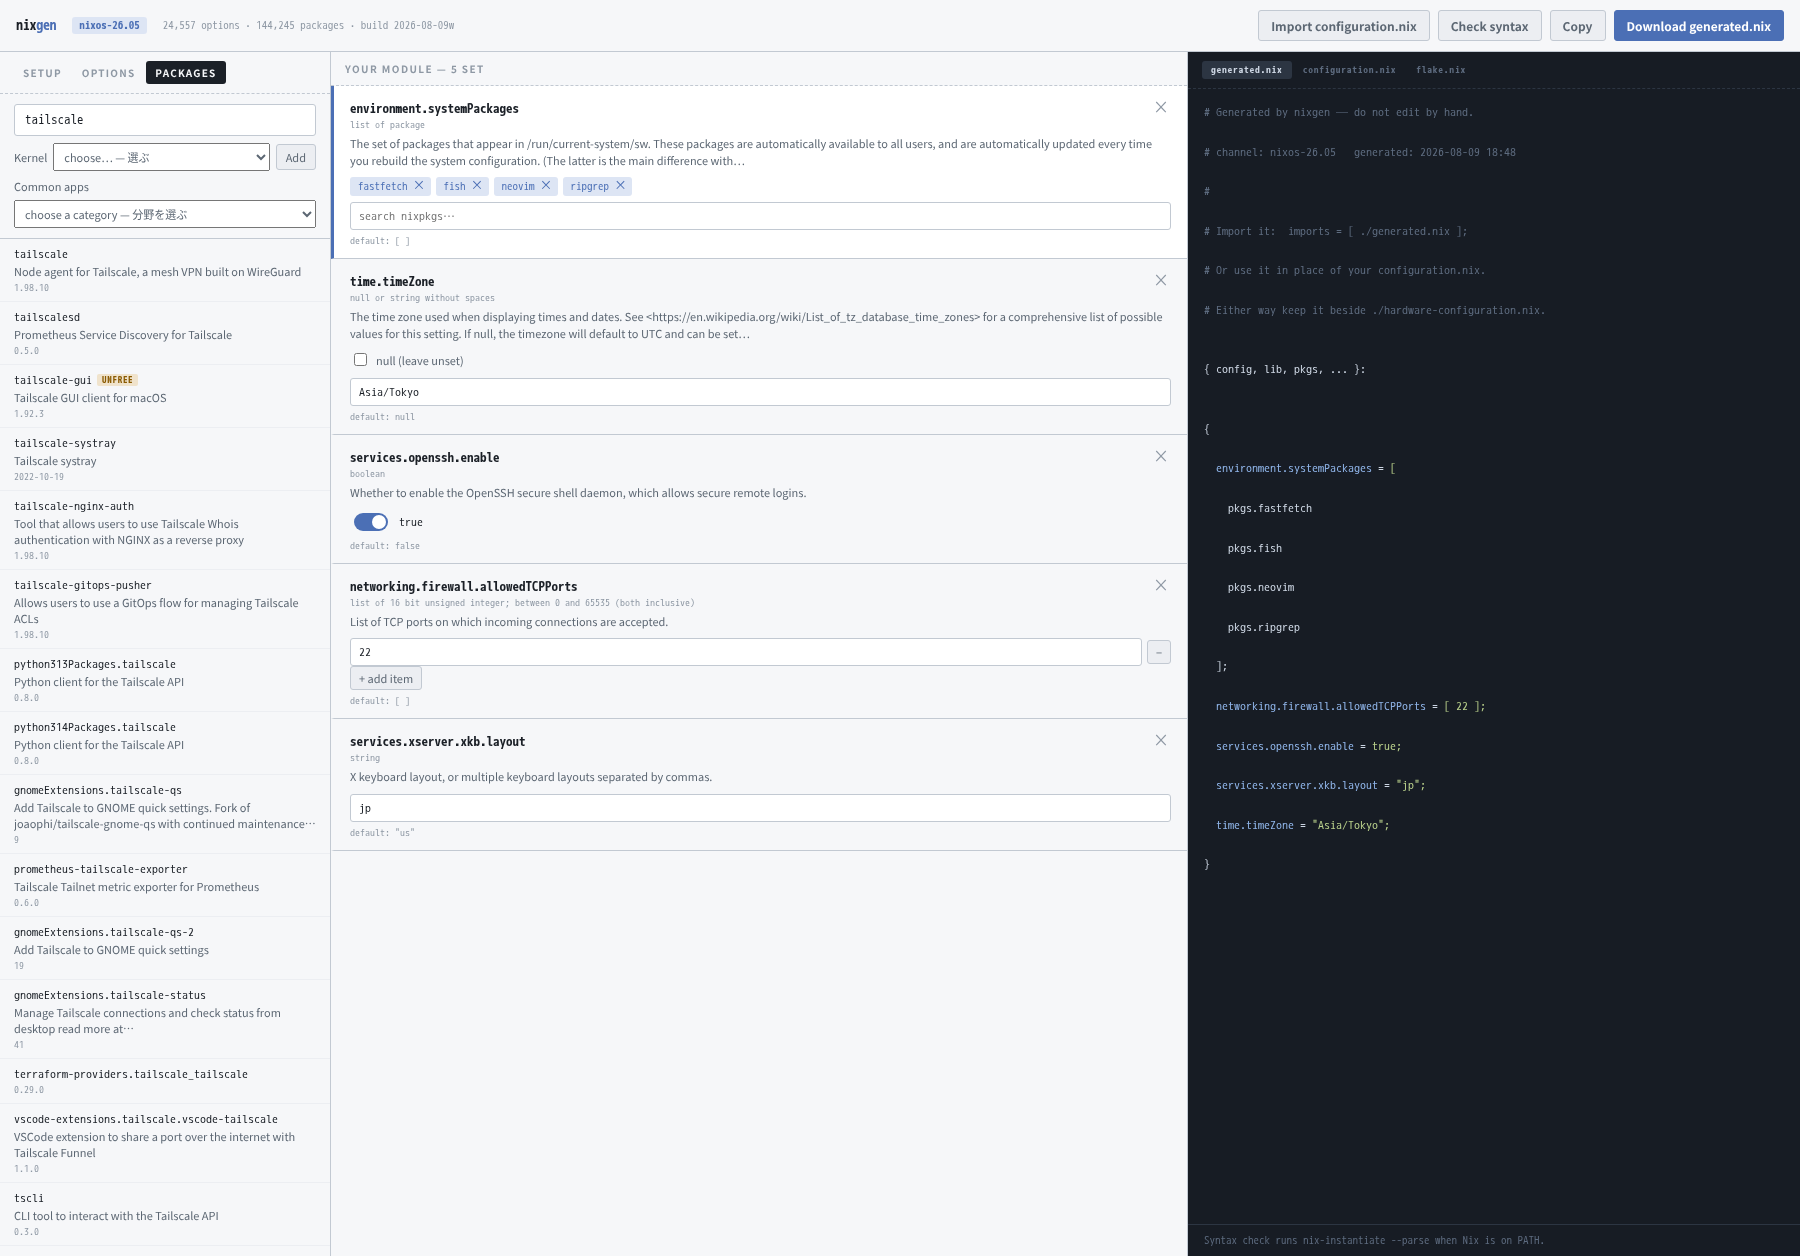
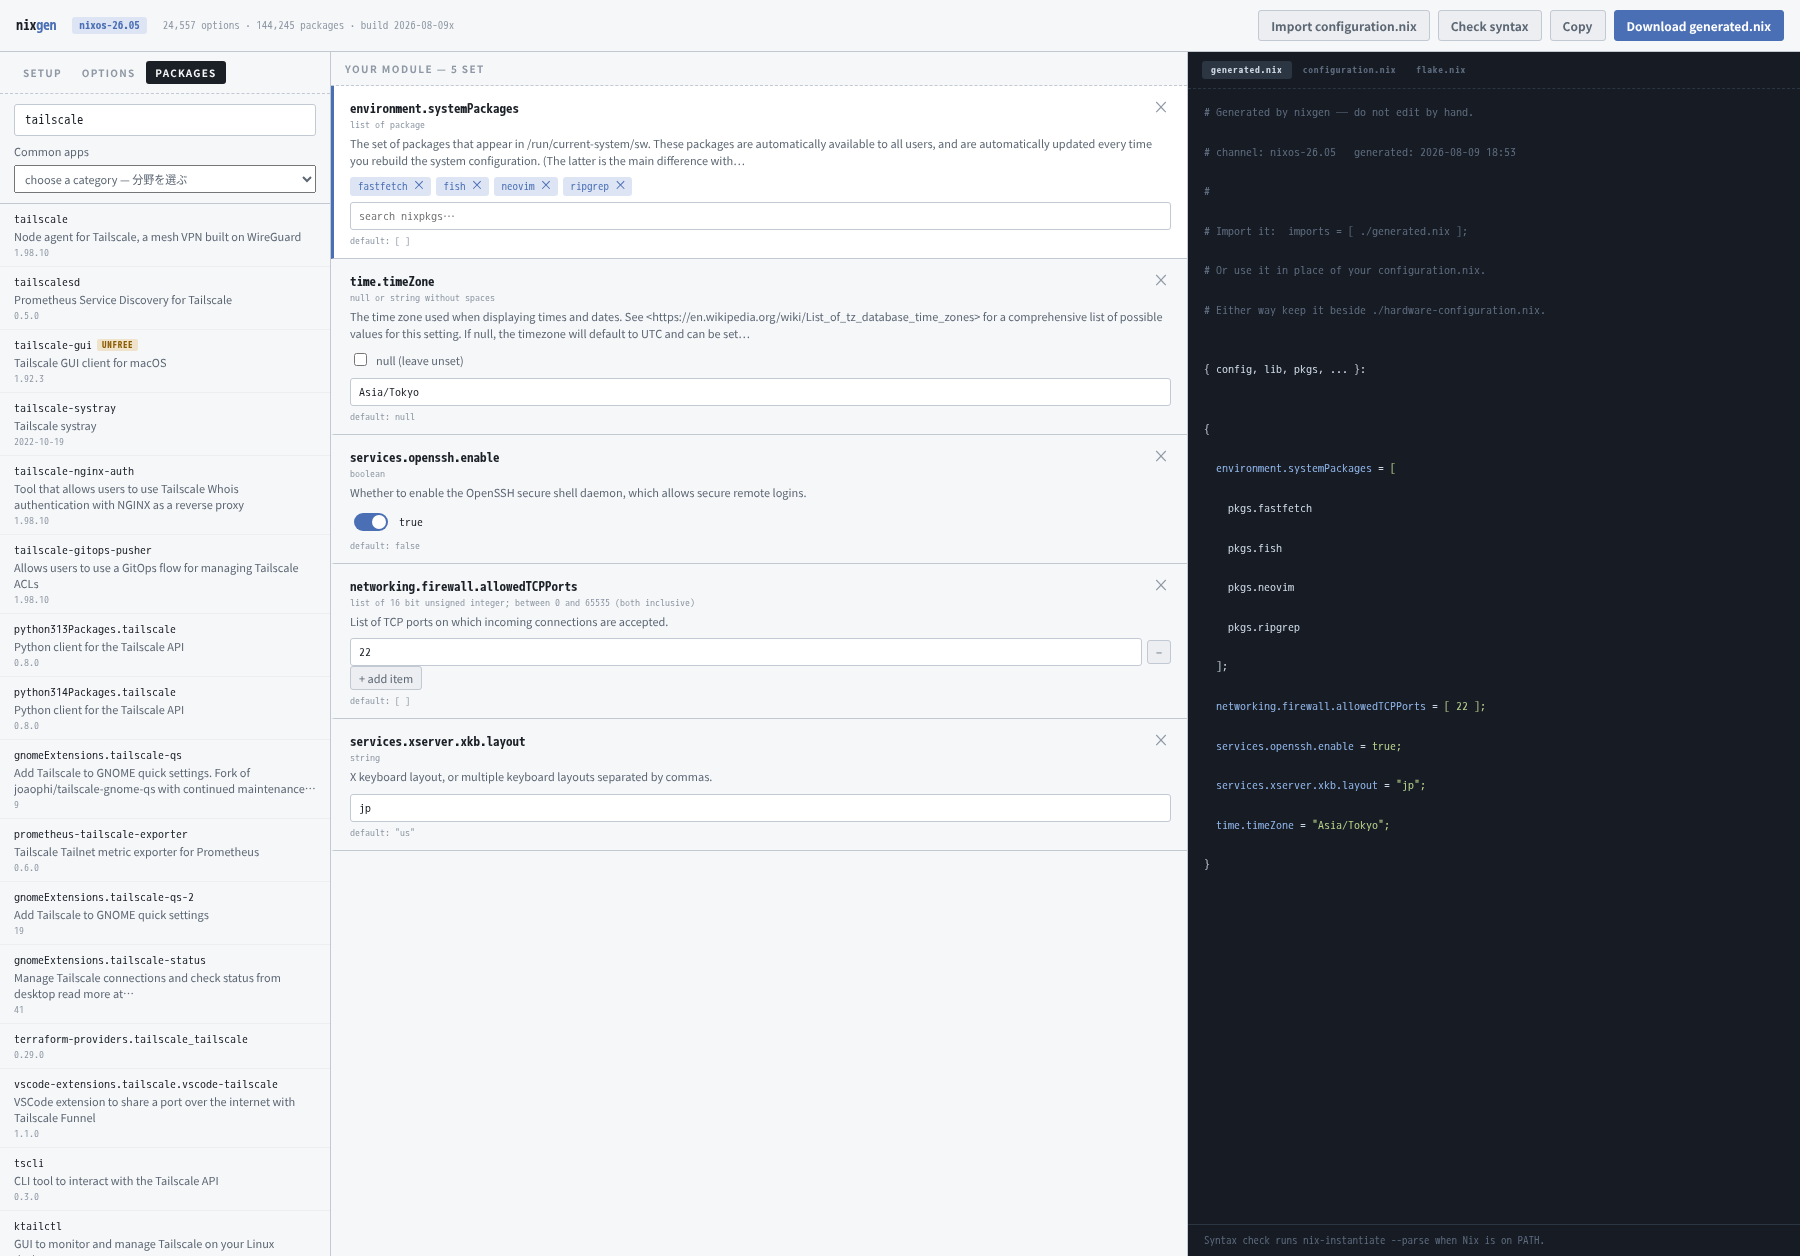
Keep the kernel row on Options only
It was added last build but not added to the list of rows the tab switch
hides, so it sat on the Packages tab too, where it looked like a second
copy of itself. Hiding is one rule over .presetline now rather than one
line per id, which is what let it be forgotten.

Changed region(s): [[0.0, 0.1242, 0.1556, 0.9936], [0.1244, 0.4347, 0.1556, 0.4968], [0.1556, 0.1242, 0.1867, 0.1553]]

diff --git a/build/static/app.js b/build/static/app.js
@@ -2,7 +2,7 @@
 
 /* Shown in the header. Bump it whenever this file changes, so "the fix did not
    work" can be told apart from "the old file is still being served". */
-const BUILD = '2026-08-09w';
+const BUILD = '2026-08-09x';
 
 const $  = (s, r = document) => r.querySelector(s);
 const $$ = (s, r = document) => [...r.querySelectorAll(s)];
@@ -166,11 +166,16 @@ function selectKind(kind) {
   showFile(setup ? 'configuration.nix' : 'generated.nix');
   if (setup) return;
 
+  /* Every preset line belongs to Options except the app categories, which add
+     packages. Written as one rule over `.presetline` rather than one line per
+     id: the id list was missed when the kernel row was added, and a row nobody
+     hid showed up on the Packages tab as well, where it had no business being
+     and read as a second copy of the one under Options. */
   $('#filterline').style.display = kind === 'options' ? '' : 'none';
-  $('#presetline').style.display = kind === 'options' ? '' : 'none';
-  $('#langline').style.display = kind === 'options' ? '' : 'none';
-  $('#gpuline').style.display = kind === 'options' ? '' : 'none';
-  $('#appsline').style.display = kind === 'packages' ? '' : 'none';
+  $$('.presetline').forEach(line => {
+    const wanted = line.id === 'appsline' ? 'packages' : 'options';
+    line.style.display = kind === wanted ? '' : 'none';
+  });
   // Leaving the tab drops the category, so the dropdown never claims to be
   // describing a list that has since been replaced by a search.
   $('#s-apps').value = '';

diff --git a/CHANGELOG.md b/CHANGELOG.md
@@ -9,6 +9,14 @@ option counts.
 
 ## English
 
+### build 2026-08-09x
+
+- **The Kernel dropdown is gone from the Packages tab**, where it had no
+  business being and read as a second copy of the one under Options. The row
+  was added last build but never added to the list of rows the tab switch
+  hides, so it stayed on screen on every tab. That list is one rule over
+  `.presetline` now, so the next row cannot be left off it.
+
 ### build 2026-08-09w
 
 - **The four dropdowns under Options are in build order now**: kernel, desktop,
@@ -372,6 +380,10 @@ three of these six showed up in only one of the two.
 ---
 
 ## 日本語
+
+### build 2026-08-09x
+
+- **Packages タブから Kernel のプルダウンを消しました。** ここにあるべきものではなく、Options にあるものの**2つめの複製に見えていました。** 前のビルドで行を追加した際、**タブ切り替えで隠す対象の一覧に入れ忘れていた**ため、すべてのタブに出たままになっていました。この一覧は `.presetline` に対する1つのルールにまとめたので、**次に行を足したときに入れ忘れることはありません。**
 
 ### build 2026-08-09w
 

diff --git a/CLAUDE.md b/CLAUDE.md
@@ -367,6 +367,7 @@ once in ways nothing else caught.
 | an empty `environment.systemPackages = [ ]` cannot be added to | `[ ]` was read as "not a list of packages" rather than as any list |
 | the whole page scrolls sideways on a phone | four header buttons in a flex row with no `flex-wrap` |
 | half a dropdown label is missing | a closed select drops what does not fit, and what did not fit was the Japanese |
+| a preset row appears on every tab | the tab switch hid rows by id, and a new row was not on the list |
 
 ---
 
